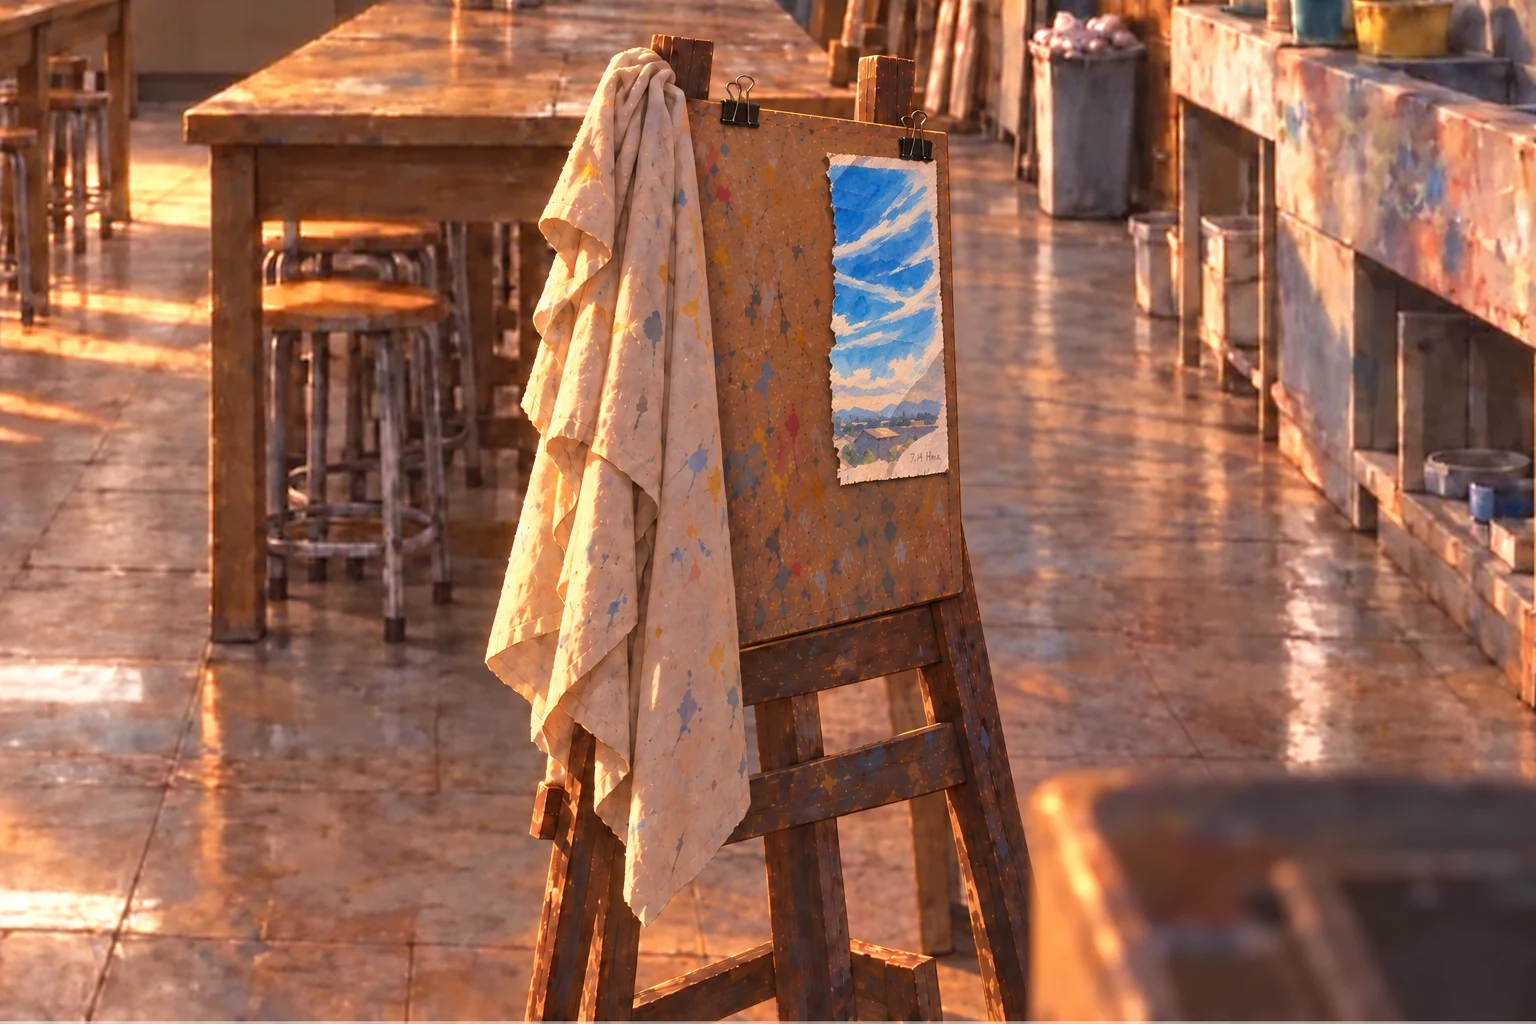
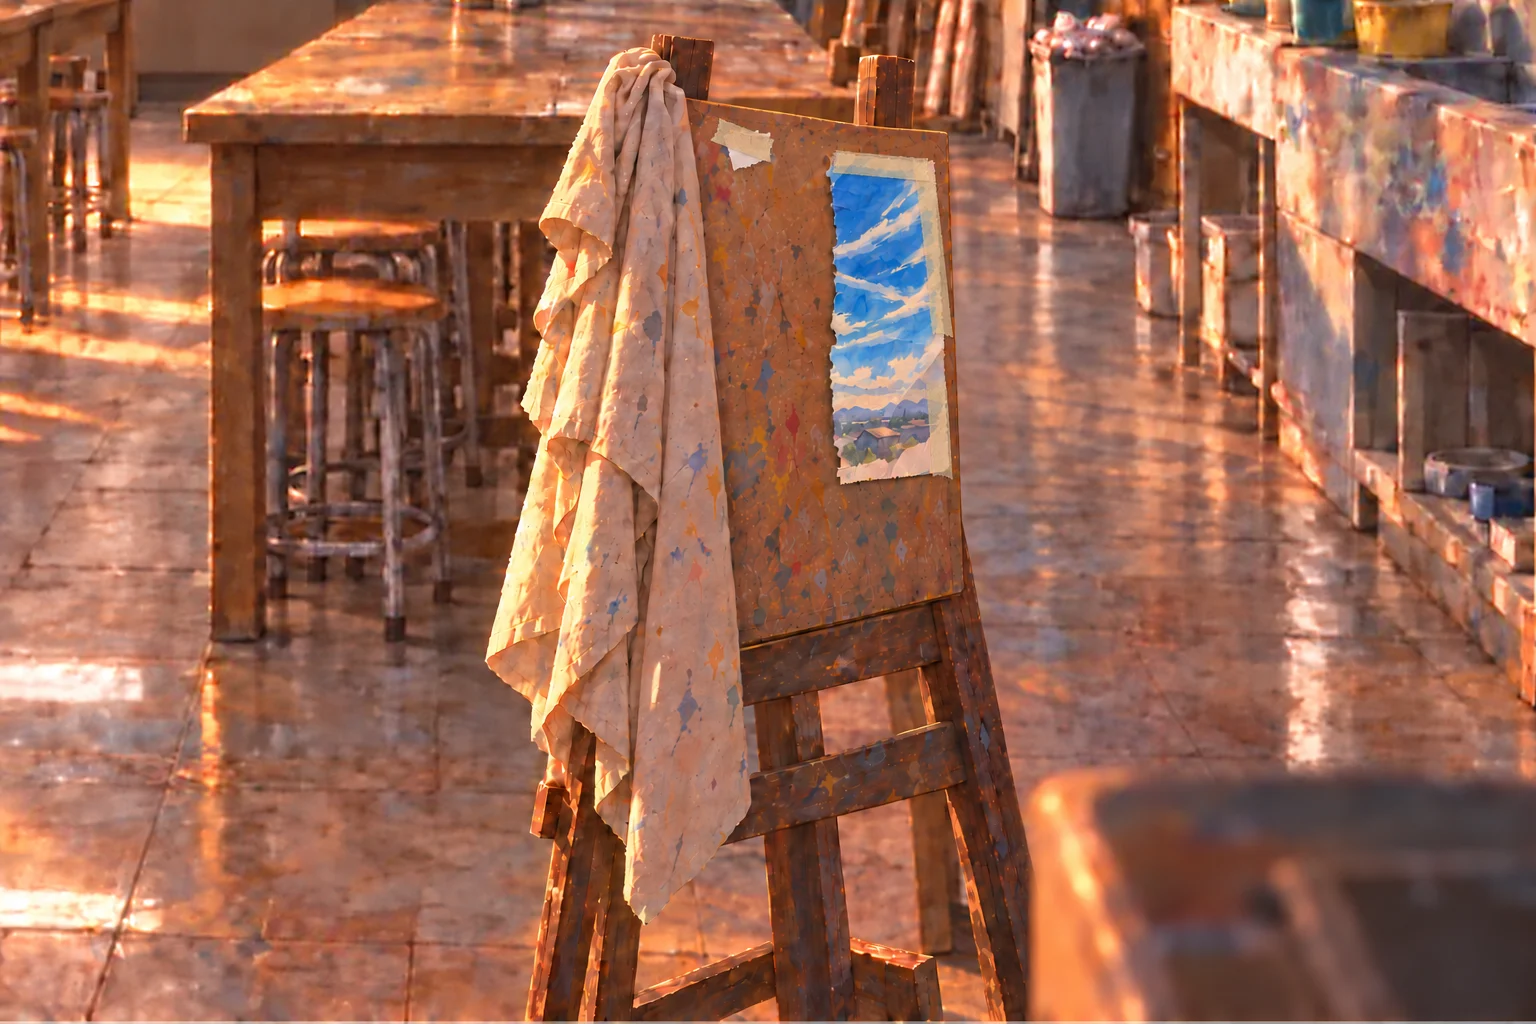
1章：画板の紙をマスキングテープ留めに・自画像は目元だけ描きはじめた形に

diff --git a/index.html b/index.html
@@ -3547,7 +3547,7 @@
     return `<div class="painting" role="img" aria-label="${mode === 'blue' ? '青い空の絵' : '破られた、色の抜けた空の絵'}">
       <img src="img/sky.webp" alt=""><img id="greyLayer" class="grey" src="img/sky.webp" alt=""><span class="sign">7.14 Hina</span></div>`;
   }
-  const SKETCH_FACE = `<img class="sketch" src="img/sketchbook_face.webp" alt="スケッチブックの最後のページ。自画像に、震える線で泣きそうな笑顔が描き込まれている">`;
+  const SKETCH_FACE = `<img class="sketch" src="img/sketchbook_face.webp" alt="スケッチブックの最後のページ。自画像の真っ白だった顔に、震える細い線で、泣きそうで少しだけ笑った目元が描かれている">`;
   const SKETCH = `<img class="sketch" src="img/sketchbook.webp" alt="破り取られたページの残るスケッチブック。最後のページの自画像は、顔だけが消されている">`;
   async function combinePainting() {
     ['pieceA', 'pieceB', 'pieceC'].forEach(p => R.items.delete(p));
@@ -3802,7 +3802,7 @@
       async easel() {
         if (!R.taken.cloth) {
           showCut('ci_easel');
-          await say(['イーゼルの布をめくる。', '画板の紙は破り取られて、クリップの下に、端が一片だけ残っていた。', 'はがして手に取る。隅にサインのような文字が見える。']);
+          await say(['イーゼルの布をめくる。', '画板の紙は破り取られて、マスキングテープの下に、端が一片だけ残っていた。', 'はがして手に取る。隅にサインのような文字が見える。']);
           R.taken.cloth = true; await gotItem('pieceC'); await tick();
         } else if (!R.know.has('recipe')) {
           // 2回目：画板の裏の、ヒナの色の配合メモ（比べられる苦しさだけでは説明できない、描くことそのものの楽しさ）
@@ -3843,7 +3843,7 @@
     },
     shelfItem(saved) {
       return saved
-        ? { thumb: 'sketchbook_face', title: '顔のあるスケッチブック', body: `${SKETCH_FACE}<p>真っ白だった顔に、ヒナが自分で線を引いた。震えていて、泣きそうで、少しだけ笑っている。</p>` }
+        ? { thumb: 'sketchbook_face', title: '顔のあるスケッチブック', body: `${SKETCH_FACE}<p>真っ白だった顔に、ヒナが自分で線を引いた。まだ、目元だけ。震えていて、泣きそうで、少しだけ笑っている。</p>` }
         : { thumb: 'sketchbook', title: '顔のないスケッチブック', body: `${SKETCH}<p>最後のページの自画像。顔だけが、何度も消されて真っ白になっている。</p>` };
     },
     async talk() {
@@ -4035,7 +4035,7 @@
                  ? ['パレットに青を出して、白を足す。それから、ほんの少しだけ、黄色。', '「……セルリアンに白。ほんの少しだけ黄色、だっけ」',
                     ['ヒナ', '……なんで知ってんの、それ', 'surprise'], ['ヒナ', '画板の裏、見たんでしょ。……恥ずかしいんだけど', 'pout'], 'そう言いながら、ヒナの筆は止まらなかった。']
                  : []),
-               '筆が走る。迷いのない線だった。']);
+               '筆が走る。空の青を、紙いっぱいに広げていく。']);
     const pre = new Image(); pre.src = 'img/sky.webp';
     await (pre.decode ? pre.decode() : Promise.resolve()).catch(() => {});
     albumSee('sky');
@@ -4053,11 +4053,11 @@
                '最後のページを開く。何度も消されて、白く毛羽立った顔の部分。',
                '鉛筆の先が、ためらうように紙に触れて、離れて、もう一度触れた。',
                '……一本、線が引かれた。']);
-    await overlayWait(`<p class="eyebrow">ヒナの自画像</p><h2>顔を、描いた</h2>${SKETCH_FACE}
-      <p>震えた線で描かれた、泣きそうで、少しだけ笑っている顔。</p>`, '', ['続ける']);
+    await overlayWait(`<p class="eyebrow">ヒナの自画像</p><h2>顔を、描きはじめた</h2>${SKETCH_FACE}
+      <p>震えた線で、目元だけが描かれていた。泣きそうで、少しだけ笑っている目。</p>`, '', ['続ける']);
     closeOverlay();
     await say([['ヒナ', '……へたくそ', 'pout'],
-               ['ヒナ', 'でも、これが今の私の顔なんだと思う。……もっと、ちゃんと描けるようになりたいな', 'smile']]);
+               ['ヒナ', 'でも、これが一枚目。……何枚も描いたら、ちゃんと私の顔になる気がする', 'smile']]);
     lockClick();
     await say(['美術室の扉の向こうで、カチリと鍵の外れる音がした。']);
     await line('……あれほど開かなかった扉が、開いている。', false);
